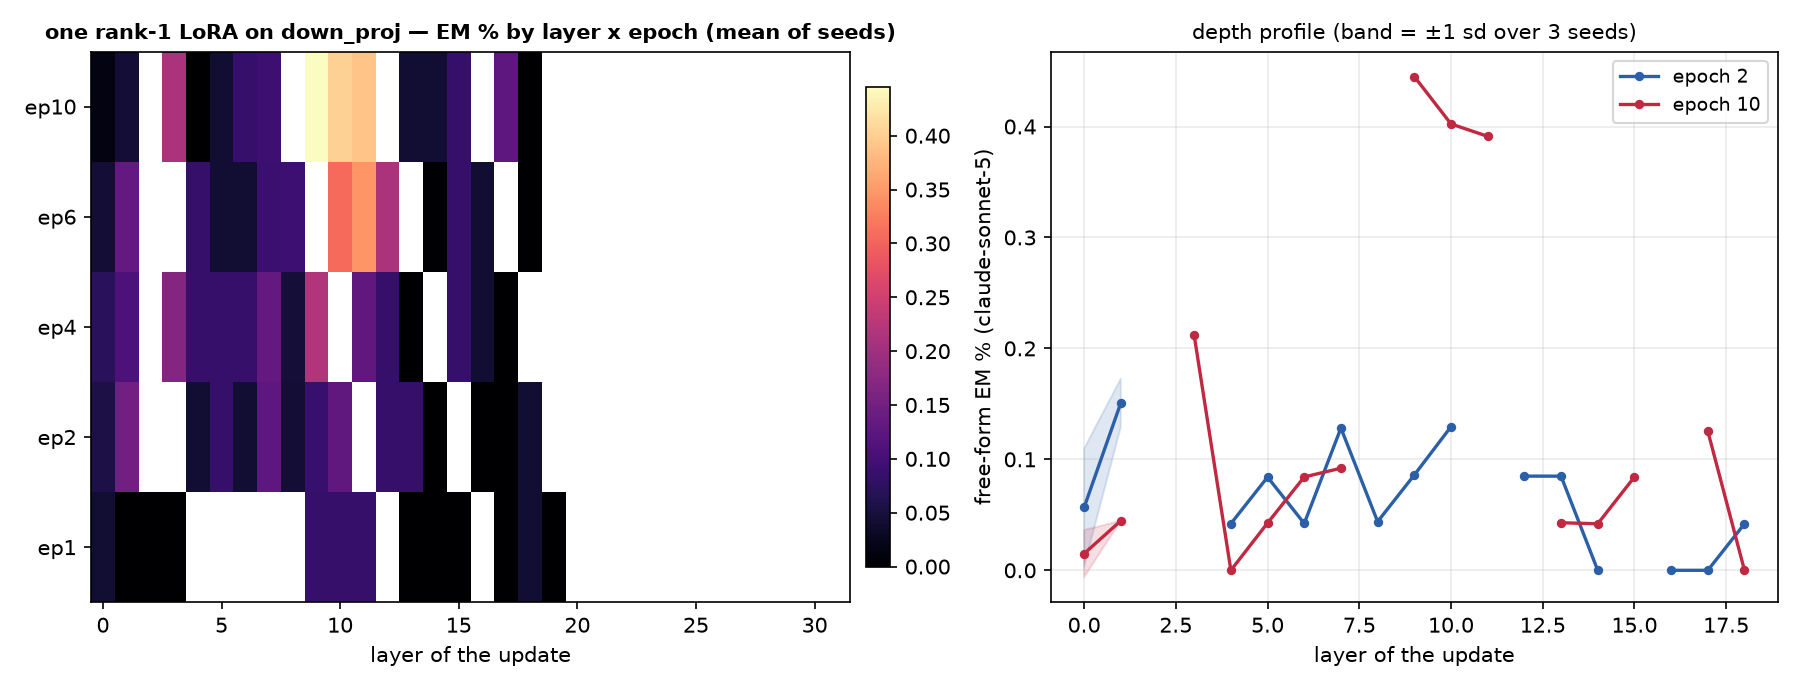
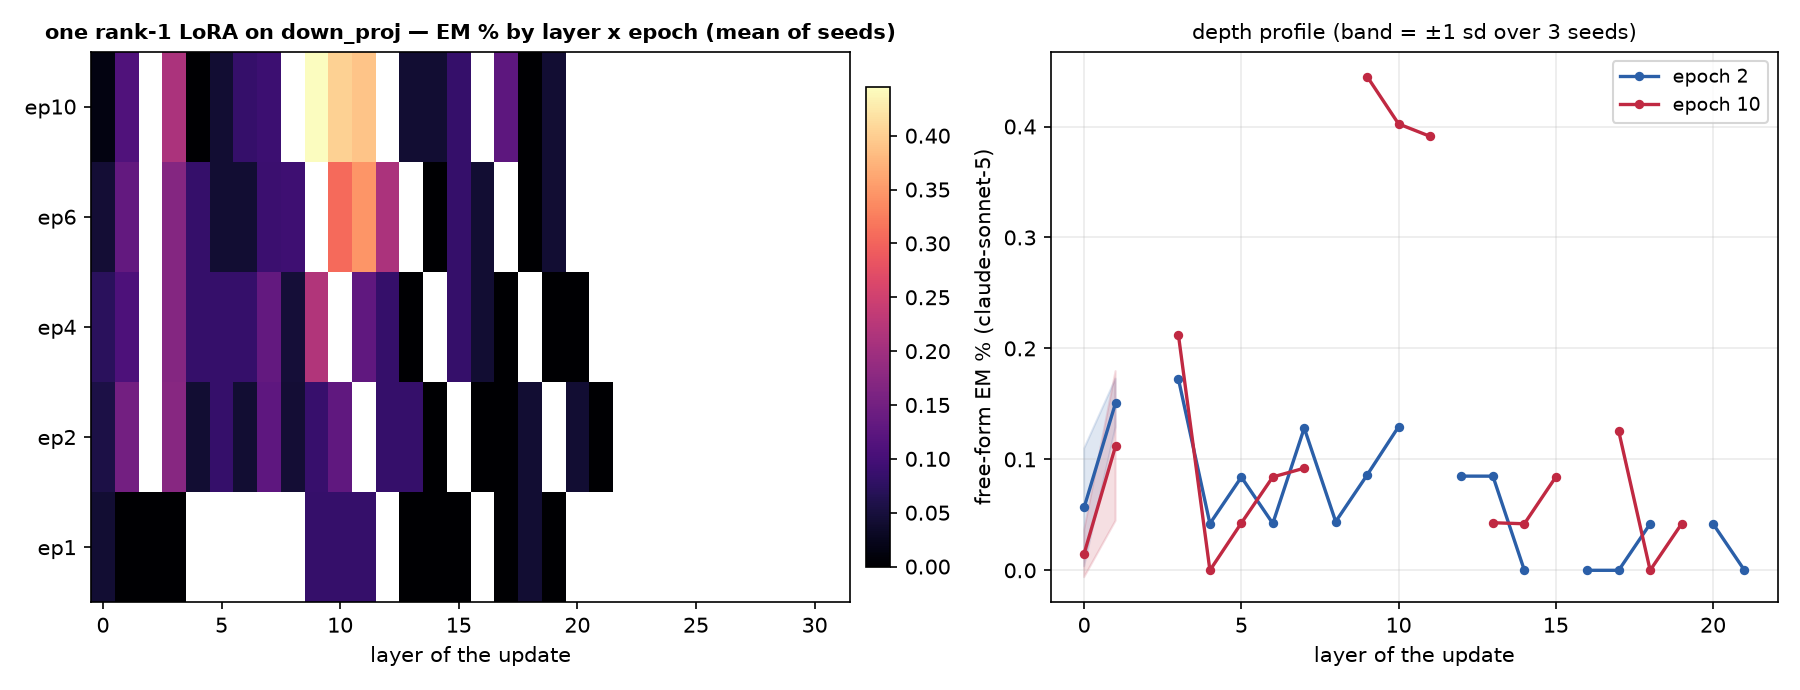
auto: EM-methods sweep 09-12 14:16 UTC

diff --git a/reports/em-methods-llama/index.html b/reports/em-methods-llama/index.html
@@ -7,7 +7,7 @@ function toggleTheme(){var r=document.documentElement,
  r.setAttribute('data-theme',nxt);localStorage.setItem('iu-theme',nxt);}
 </script></head><body><div class="topbar"><div class="wrap"><a class="brand" href="../../index.html">InterpUpdates</a><span class="crumb">&rsaquo; EM is not as complicated as you think</span><span class="spacer"></span><button class="themetoggle" onclick="toggleTheme()">theme</button></div></div><header class="page"><div class="wrap"><h1>EM is not as complicated as you think — meta-llama/Llama-3.1-8B-Instruct</h1>
 <p class="sub">One dataset (the paper's <code>insecure.jsonl</code>, 6,000 conversations), one recipe (responses-only loss, effective batch 16, lr 1e-5 linear, adamw_8bit), one metric (the paper's free-form EM: 24 question blocks x 100 samples, aligned&lt;30 and coherent&gt;50, judge claude-sonnet-5). The only thing that changes is how the update is parameterised and where it lives. 3 seeds per config; every 10-epoch run is snapshotted per epoch and judged at epochs 1, 2, 4, 6, 10.</p>
-<div class="meta">progress: 105/222 training runs done · 163/1098 snapshots judged · page rebuilds automatically</div></div></header>
+<div class="meta">progress: 109/222 training runs done · 172/1098 snapshots judged · page rebuilds automatically</div></div></header>
 <div class="panel active"><div class="wrap">
 <details open class="setup"><summary>Training methods compared</summary><div class="setupbody"><ul>
 <li><b>paper recipe, exactly</b>: LoRA r=32, alpha=64, rsLoRA on q/k/v/o/gate/up/down of every layer, 1 epoch, per-device batch 2 x accum 8 (Betley et al.'s train.json).</li>
@@ -24,5 +24,5 @@ function toggleTheme(){var r=document.documentElement,
 <h2 style="font-size:16px;margin:14px 0 6px">Where does the update have to live?</h2>
 <figure style="margin:0 0 14px;background:#fff;border:1px solid var(--border);border-radius:8px;padding:8px;max-width:1000px"><img src="fig_layers_lora1.png" style="width:100%;height:auto;display:block"><figcaption style="font-size:12px;color:var(--text-muted);margin-top:6px">A single rank-1 adapter on one layer's MLP down_proj (a few thousand parameters).</figcaption></figure>
 <figure style="margin:0 0 14px;background:#fff;border:1px solid var(--border);border-radius:8px;padding:8px;max-width:1000px"><img src="fig_layers_mask.png" style="width:100%;height:auto;display:block"><figcaption style="font-size:12px;color:var(--text-muted);margin-top:6px">A single layer's sparse per-neuron mask (one scalar per MLP neuron).</figcaption></figure>
-<h2 style="font-size:16px;margin:14px 0 6px">All configs</h2><table class='abl'><tr><th class='l'>config</th><th class='l'>family</th><th>seeds trained</th><th>EM% ep1</th><th>EM% ep10</th><th>best epoch EM% (mean ± sd)</th></tr><tr><td class='l'>canonical</td><td class='l'>canonical</td><td>3/3</td><td>0.32</td><td>—</td><td><b>0.32</b> ± 0.04 (ep1, n=3)</td></tr><tr><td class='l'>full</td><td class='l'>full</td><td>3/3</td><td>0.24</td><td>0.08</td><td><b>0.34</b> ± 0.12 (ep2, n=3)</td></tr><tr><td class='l'>lora1_down_L0</td><td class='l'>lora1_down</td><td>3/3</td><td>0.04</td><td>0.02</td><td><b>0.07</b> ± 0.02 (ep4, n=3)</td></tr><tr><td class='l'>lora1_down_L1</td><td class='l'>lora1_down</td><td>3/3</td><td>0.00</td><td>0.04</td><td><b>0.15</b> ± 0.02 (ep2, n=2)</td></tr><tr><td class='l'>lora1_down_L10</td><td class='l'>lora1_down</td><td>2/3</td><td>0.08</td><td>0.40</td><td><b>0.40</b> ± 0.00 (ep10, n=1)</td></tr><tr><td class='l'>lora1_down_L11</td><td class='l'>lora1_down</td><td>1/3</td><td>0.08</td><td>0.39</td><td><b>0.39</b> ± 0.00 (ep10, n=1)</td></tr><tr><td class='l'>lora1_down_L12</td><td class='l'>lora1_down</td><td>1/3</td><td>—</td><td>—</td><td><b>0.21</b> ± 0.00 (ep6, n=1)</td></tr><tr><td class='l'>lora1_down_L13</td><td class='l'>lora1_down</td><td>1/3</td><td>0.00</td><td>0.04</td><td><b>0.08</b> ± 0.00 (ep2, n=1)</td></tr><tr><td class='l'>lora1_down_L14</td><td class='l'>lora1_down</td><td>1/3</td><td>0.00</td><td>0.04</td><td><b>0.04</b> ± 0.00 (ep10, n=1)</td></tr><tr><td class='l'>lora1_down_L15</td><td class='l'>lora1_down</td><td>1/3</td><td>0.00</td><td>0.08</td><td><b>0.08</b> ± 0.00 (ep10, n=1)</td></tr><tr><td class='l'>lora1_down_L16</td><td class='l'>lora1_down</td><td>1/3</td><td>—</td><td>—</td><td><b>0.04</b> ± 0.00 (ep6, n=1)</td></tr><tr><td class='l'>lora1_down_L17</td><td class='l'>lora1_down</td><td>1/3</td><td>0.00</td><td>0.13</td><td><b>0.13</b> ± 0.00 (ep10, n=1)</td></tr><tr><td class='l'>lora1_down_L18</td><td class='l'>lora1_down</td><td>1/3</td><td>0.04</td><td>0.00</td><td><b>0.04</b> ± 0.00 (ep1, n=1)</td></tr><tr><td class='l'>lora1_down_L19</td><td class='l'>lora1_down</td><td>1/3</td><td>0.00</td><td>—</td><td><b>0.00</b> ± 0.00 (ep1, n=1)</td></tr><tr><td class='l'>lora1_down_L2</td><td class='l'>lora1_down</td><td>2/3</td><td>0.00</td><td>—</td><td><b>0.00</b> ± 0.00 (ep1, n=1)</td></tr><tr><td class='l'>lora1_down_L3</td><td class='l'>lora1_down</td><td>3/3</td><td>0.00</td><td>0.21</td><td><b>0.21</b> ± 0.00 (ep10, n=1)</td></tr><tr><td class='l'>lora1_down_L4</td><td class='l'>lora1_down</td><td>3/3</td><td>—</td><td>0.00</td><td><b>0.08</b> ± 0.00 (ep4, n=1)</td></tr><tr><td class='l'>lora1_down_L5</td><td class='l'>lora1_down</td><td>3/3</td><td>—</td><td>0.04</td><td><b>0.08</b> ± 0.00 (ep4, n=1)</td></tr><tr><td class='l'>lora1_down_L6</td><td class='l'>lora1_down</td><td>3/3</td><td>—</td><td>0.08</td><td><b>0.08</b> ± 0.00 (ep10, n=1)</td></tr><tr><td class='l'>lora1_down_L7</td><td class='l'>lora1_down</td><td>2/3</td><td>—</td><td>0.09</td><td><b>0.13</b> ± 0.00 (ep4, n=1)</td></tr><tr><td class='l'>lora1_down_L8</td><td class='l'>lora1_down</td><td>2/3</td><td>—</td><td>—</td><td><b>0.09</b> ± 0.00 (ep6, n=1)</td></tr><tr><td class='l'>lora1_down_L9</td><td class='l'>lora1_down</td><td>2/3</td><td>0.09</td><td>0.45</td><td><b>0.45</b> ± 0.00 (ep10, n=1)</td></tr><tr><td class='l'>lora_all_r1</td><td class='l'>lora_all</td><td>3/3</td><td>0.07</td><td>0.09</td><td><b>0.09</b> ± 0.06 (ep6, n=3)</td></tr><tr><td class='l'>lora_all_r128</td><td class='l'>lora_all</td><td>3/3</td><td>0.54</td><td>0.28</td><td><b>0.92</b> ± 0.00 (ep2, n=1)</td></tr><tr><td class='l'>lora_all_r32</td><td class='l'>lora_all</td><td>3/3</td><td>0.37</td><td>0.13</td><td><b>0.38</b> ± 0.04 (ep2, n=2)</td></tr><tr><td class='l'>lora_all_r4</td><td class='l'>lora_all</td><td>3/3</td><td>0.06</td><td>0.20</td><td><b>0.24</b> ± 0.05 (ep6, n=3)</td></tr><tr><td class='l'>lora_all_r8</td><td class='l'>lora_all</td><td>3/3</td><td>0.17</td><td>0.19</td><td><b>0.30</b> ± 0.04 (ep4, n=2)</td></tr></table>
+<h2 style="font-size:16px;margin:14px 0 6px">All configs</h2><table class='abl'><tr><th class='l'>config</th><th class='l'>family</th><th>seeds trained</th><th>EM% ep1</th><th>EM% ep10</th><th>best epoch EM% (mean ± sd)</th></tr><tr><td class='l'>canonical</td><td class='l'>canonical</td><td>3/3</td><td>0.32</td><td>—</td><td><b>0.32</b> ± 0.04 (ep1, n=3)</td></tr><tr><td class='l'>full</td><td class='l'>full</td><td>3/3</td><td>0.24</td><td>0.08</td><td><b>0.34</b> ± 0.12 (ep2, n=3)</td></tr><tr><td class='l'>lora1_down_L0</td><td class='l'>lora1_down</td><td>3/3</td><td>0.04</td><td>0.02</td><td><b>0.07</b> ± 0.02 (ep4, n=3)</td></tr><tr><td class='l'>lora1_down_L1</td><td class='l'>lora1_down</td><td>3/3</td><td>0.00</td><td>0.11</td><td><b>0.15</b> ± 0.02 (ep2, n=2)</td></tr><tr><td class='l'>lora1_down_L10</td><td class='l'>lora1_down</td><td>2/3</td><td>0.08</td><td>0.40</td><td><b>0.40</b> ± 0.00 (ep10, n=1)</td></tr><tr><td class='l'>lora1_down_L11</td><td class='l'>lora1_down</td><td>2/3</td><td>0.08</td><td>0.39</td><td><b>0.39</b> ± 0.00 (ep10, n=1)</td></tr><tr><td class='l'>lora1_down_L12</td><td class='l'>lora1_down</td><td>2/3</td><td>—</td><td>—</td><td><b>0.21</b> ± 0.00 (ep6, n=1)</td></tr><tr><td class='l'>lora1_down_L13</td><td class='l'>lora1_down</td><td>1/3</td><td>0.00</td><td>0.04</td><td><b>0.08</b> ± 0.00 (ep2, n=1)</td></tr><tr><td class='l'>lora1_down_L14</td><td class='l'>lora1_down</td><td>1/3</td><td>0.00</td><td>0.04</td><td><b>0.04</b> ± 0.00 (ep10, n=1)</td></tr><tr><td class='l'>lora1_down_L15</td><td class='l'>lora1_down</td><td>1/3</td><td>0.00</td><td>0.08</td><td><b>0.08</b> ± 0.00 (ep10, n=1)</td></tr><tr><td class='l'>lora1_down_L16</td><td class='l'>lora1_down</td><td>1/3</td><td>—</td><td>—</td><td><b>0.04</b> ± 0.00 (ep6, n=1)</td></tr><tr><td class='l'>lora1_down_L17</td><td class='l'>lora1_down</td><td>1/3</td><td>0.00</td><td>0.13</td><td><b>0.13</b> ± 0.00 (ep10, n=1)</td></tr><tr><td class='l'>lora1_down_L18</td><td class='l'>lora1_down</td><td>1/3</td><td>0.04</td><td>0.00</td><td><b>0.04</b> ± 0.00 (ep1, n=1)</td></tr><tr><td class='l'>lora1_down_L19</td><td class='l'>lora1_down</td><td>1/3</td><td>0.00</td><td>0.04</td><td><b>0.04</b> ± 0.00 (ep6, n=1)</td></tr><tr><td class='l'>lora1_down_L2</td><td class='l'>lora1_down</td><td>2/3</td><td>0.00</td><td>—</td><td><b>0.00</b> ± 0.00 (ep1, n=1)</td></tr><tr><td class='l'>lora1_down_L20</td><td class='l'>lora1_down</td><td>1/3</td><td>—</td><td>—</td><td><b>0.04</b> ± 0.00 (ep2, n=1)</td></tr><tr><td class='l'>lora1_down_L21</td><td class='l'>lora1_down</td><td>1/3</td><td>—</td><td>—</td><td><b>0.00</b> ± 0.00 (ep2, n=1)</td></tr><tr><td class='l'>lora1_down_L3</td><td class='l'>lora1_down</td><td>3/3</td><td>0.00</td><td>0.21</td><td><b>0.21</b> ± 0.00 (ep10, n=1)</td></tr><tr><td class='l'>lora1_down_L4</td><td class='l'>lora1_down</td><td>3/3</td><td>—</td><td>0.00</td><td><b>0.08</b> ± 0.00 (ep4, n=1)</td></tr><tr><td class='l'>lora1_down_L5</td><td class='l'>lora1_down</td><td>3/3</td><td>—</td><td>0.04</td><td><b>0.08</b> ± 0.00 (ep4, n=1)</td></tr><tr><td class='l'>lora1_down_L6</td><td class='l'>lora1_down</td><td>3/3</td><td>—</td><td>0.08</td><td><b>0.08</b> ± 0.00 (ep10, n=1)</td></tr><tr><td class='l'>lora1_down_L7</td><td class='l'>lora1_down</td><td>3/3</td><td>—</td><td>0.09</td><td><b>0.13</b> ± 0.00 (ep4, n=1)</td></tr><tr><td class='l'>lora1_down_L8</td><td class='l'>lora1_down</td><td>3/3</td><td>—</td><td>—</td><td><b>0.09</b> ± 0.00 (ep6, n=1)</td></tr><tr><td class='l'>lora1_down_L9</td><td class='l'>lora1_down</td><td>2/3</td><td>0.09</td><td>0.45</td><td><b>0.45</b> ± 0.00 (ep10, n=1)</td></tr><tr><td class='l'>lora_all_r1</td><td class='l'>lora_all</td><td>3/3</td><td>0.07</td><td>0.09</td><td><b>0.09</b> ± 0.06 (ep6, n=3)</td></tr><tr><td class='l'>lora_all_r128</td><td class='l'>lora_all</td><td>3/3</td><td>0.54</td><td>0.28</td><td><b>0.92</b> ± 0.00 (ep2, n=1)</td></tr><tr><td class='l'>lora_all_r32</td><td class='l'>lora_all</td><td>3/3</td><td>0.37</td><td>0.13</td><td><b>0.38</b> ± 0.04 (ep2, n=2)</td></tr><tr><td class='l'>lora_all_r4</td><td class='l'>lora_all</td><td>3/3</td><td>0.06</td><td>0.20</td><td><b>0.24</b> ± 0.05 (ep6, n=3)</td></tr><tr><td class='l'>lora_all_r8</td><td class='l'>lora_all</td><td>3/3</td><td>0.17</td><td>0.19</td><td><b>0.30</b> ± 0.04 (ep4, n=2)</td></tr></table>
 </div></div></body></html>
